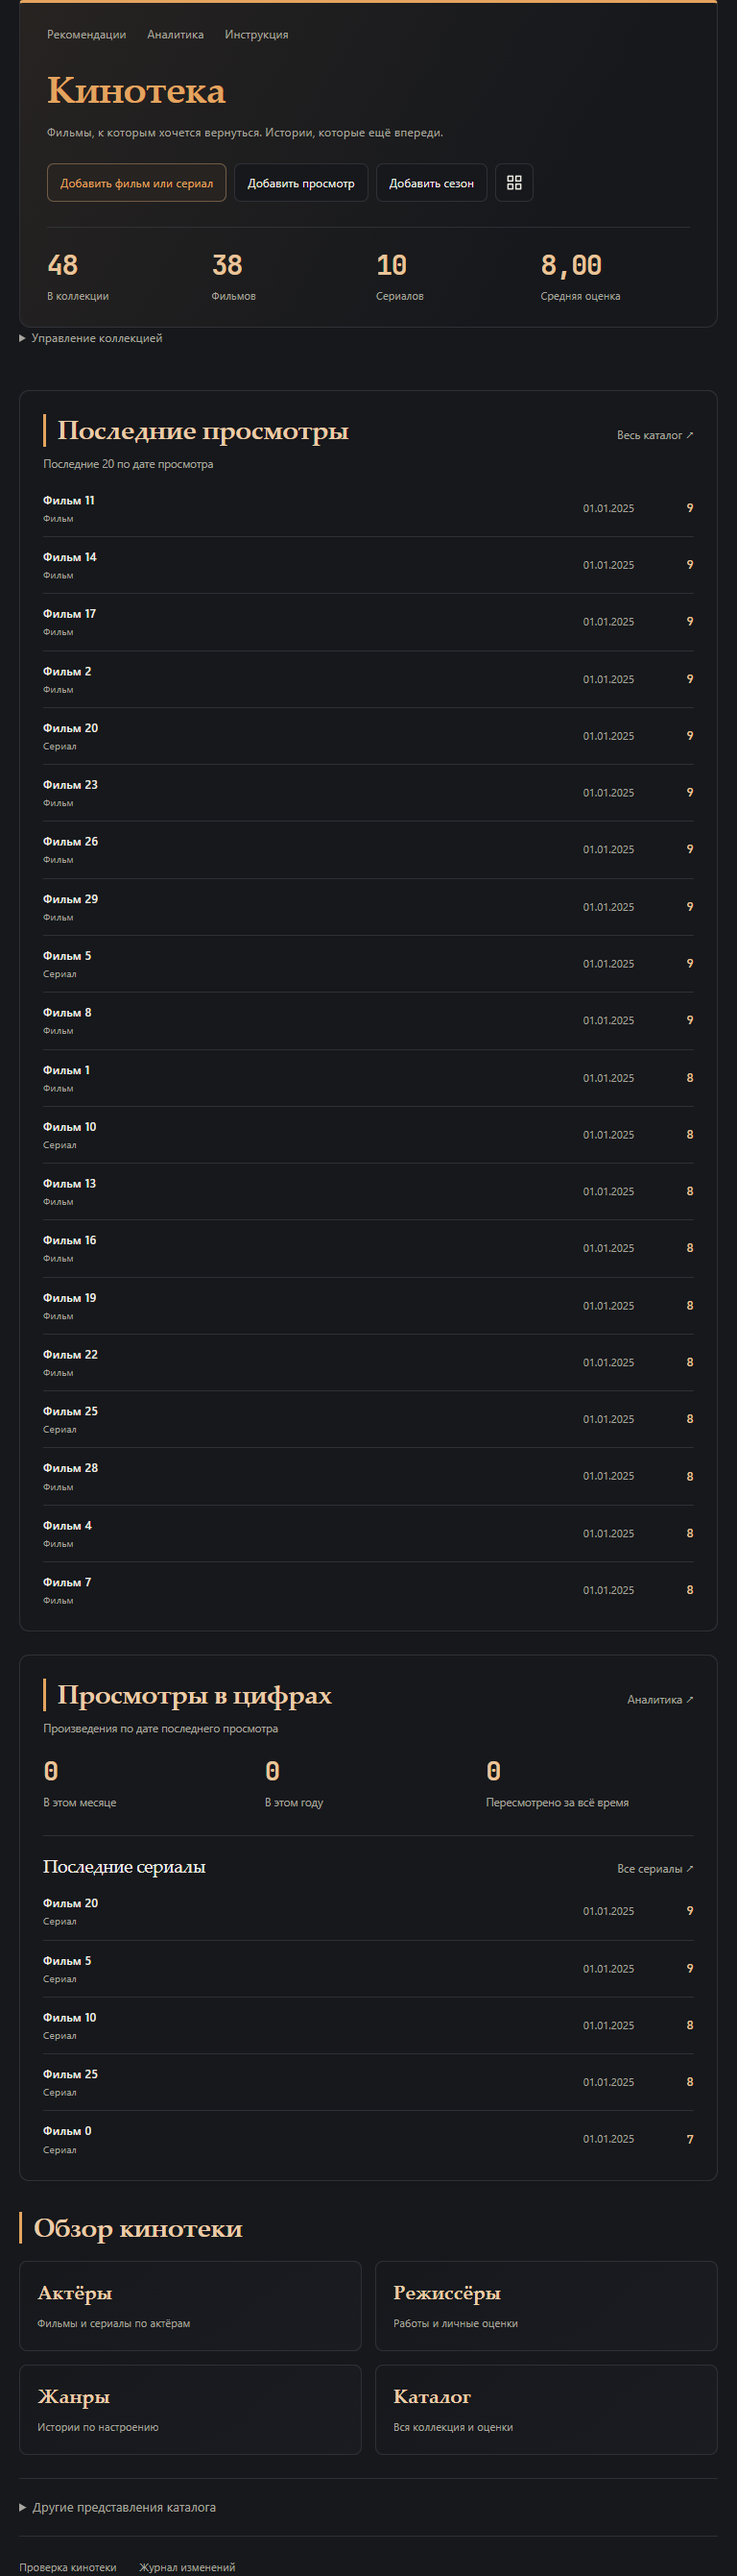
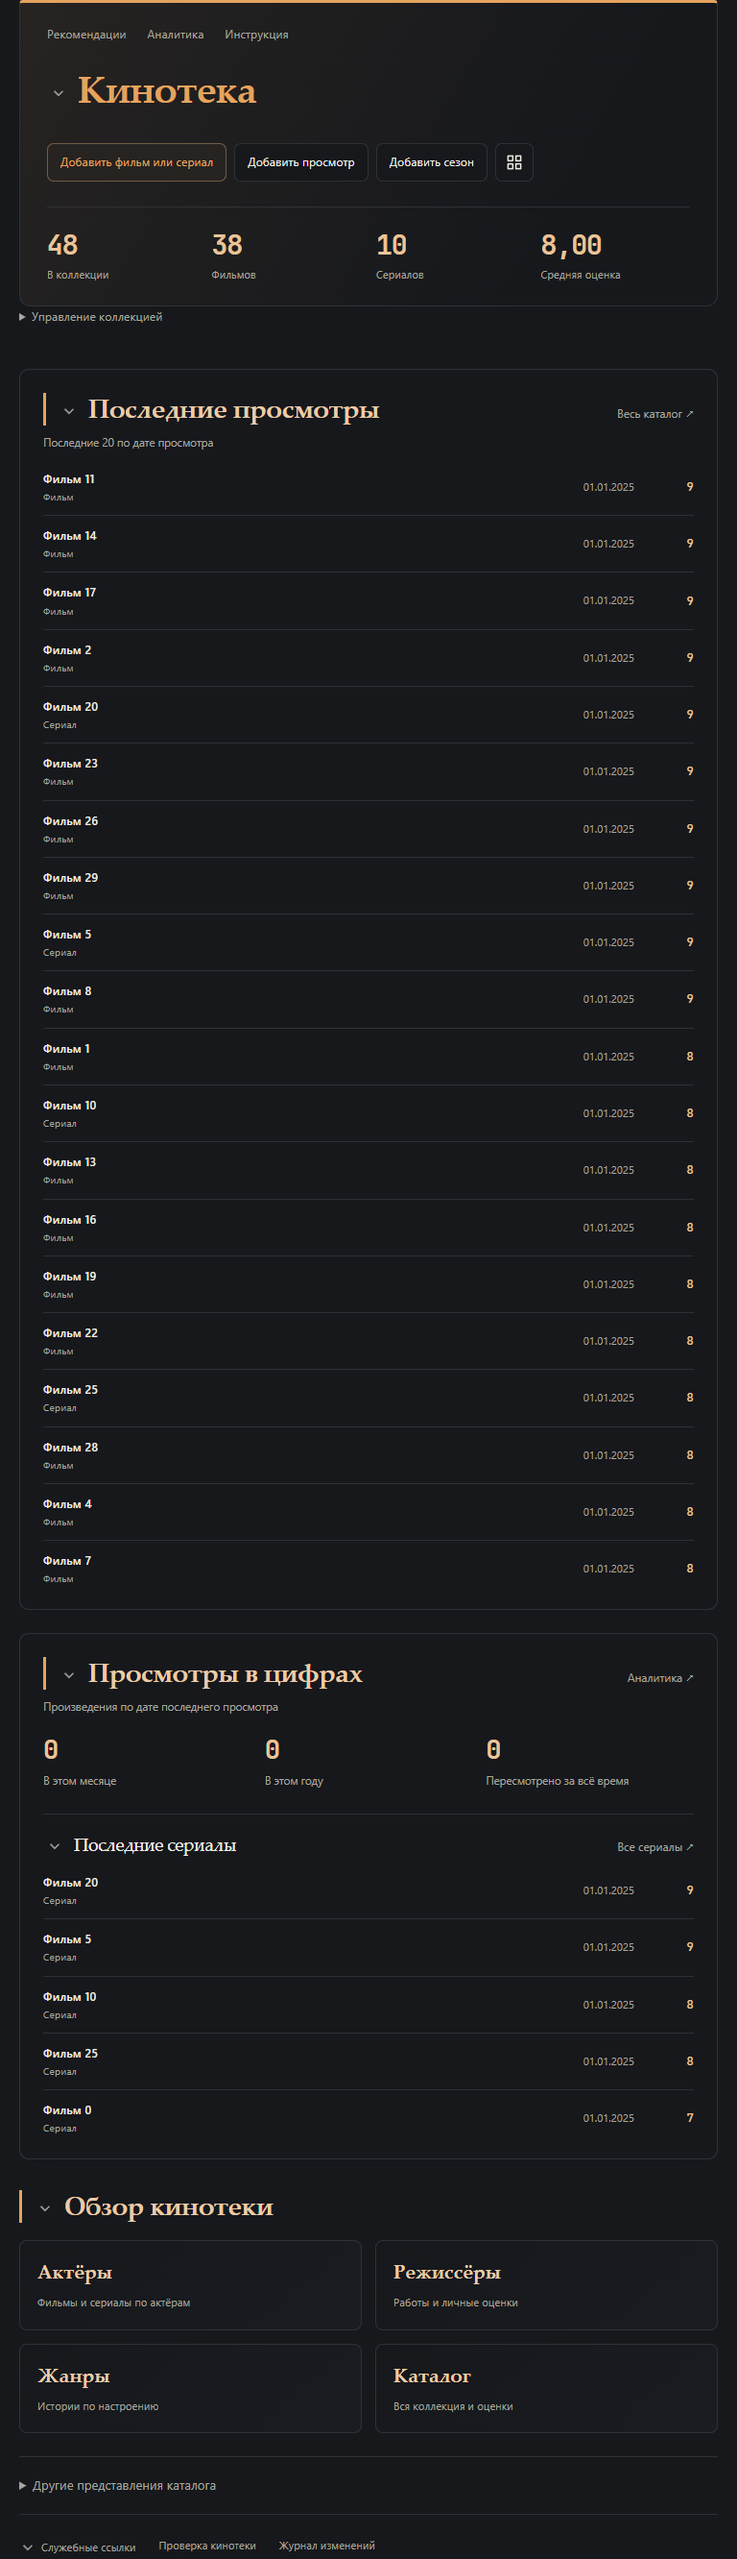
vault backup: 2026-10-09 22:18:48

diff --git a/Кино/_system/kino_home.js b/Кино/_system/kino_home.js
@@ -116,6 +116,52 @@ module.exports = async ({ dv, app, obsidian = {} }) => {
         root = el(dv.container, 'section', 'kino-home-ui'); root.dataset.ready = 'false';
         if (refresh) refresh.root = root;
         el(root, 'style', '', css);
+        const foldKey = 'kino.home.folds.v1:' + (app.vault.getName?.() || '') + ':' + source;
+        const memory = app.__kinoHomeFolds || (app.__kinoHomeFolds = Object.create(null));
+        let folds = memory[foldKey] || {};
+        try {
+            const saved = JSON.parse(doc.defaultView.localStorage.getItem(foldKey));
+            if (saved && typeof saved === 'object' && !Array.isArray(saved)) folds = saved;
+        } catch (_) {}
+        memory[foldKey] = folds;
+        function saveFold(key, expanded) {
+            if (disposed) return;
+            folds[key] = expanded;
+            try { doc.defaultView.localStorage.setItem(foldKey, JSON.stringify(folds)); } catch (_) {}
+        }
+        const instance = 'kino-fold-' + Math.random().toString(36).slice(2);
+        function foldBlock(box, heading, targets, key, label) {
+            box.dataset.fold = key;
+            const button = el(heading, 'button', 'kino-home-fold'); button.type = 'button';
+            heading.prepend(button);
+            const svg = doc.createElementNS('http://www.w3.org/2000/svg', 'svg');
+            svg.setAttribute('viewBox', '0 0 24 24'); svg.setAttribute('aria-hidden', 'true');
+            const arrow = doc.createElementNS('http://www.w3.org/2000/svg', 'path');
+            arrow.setAttribute('d', 'M6 9l6 6 6-6'); arrow.setAttribute('fill', 'none');
+            arrow.setAttribute('stroke', 'currentColor'); arrow.setAttribute('stroke-width', '2');
+            svg.appendChild(arrow); button.appendChild(svg);
+            if (key === 'footer') el(button, 'span', '', 'Служебные ссылки');
+            const nodes = targets.filter(Boolean);
+            nodes.forEach((node, index) => { if (!node.id) node.id = `${instance}-${key}-${index}`; });
+            button.setAttribute('aria-controls', nodes.map(node => node.id).join(' '));
+            function drawFold(expanded) {
+                box.dataset.collapsed = String(!expanded);
+                button.setAttribute('aria-expanded', String(expanded));
+                button.setAttribute('aria-label', `${expanded ? 'Свернуть' : 'Раскрыть'} блок «${label}»`);
+                button.title = button.getAttribute('aria-label');
+                for (const node of nodes) node.hidden = !expanded;
+            }
+            drawFold(typeof folds[key] === 'boolean' ? folds[key] : true);
+            listen(button, 'click', () => {
+                const expanded = button.getAttribute('aria-expanded') !== 'true';
+                drawFold(expanded); saveFold(key, expanded);
+            });
+        }
+        function rememberDetails(details, key) {
+            details.dataset.fold = key;
+            if (typeof folds[key] === 'boolean') details.open = folds[key];
+            listen(details, 'toggle', event => { if (event.target === details) saveFold(key, details.open); });
+        }
         const status = el(root, 'p', 'kino-home-action-error'); status.hidden = true; status.setAttribute('role', 'status');
         function command(parent, text, choice, cls = '') {
             const link = el(parent, 'a', cls, text);
@@ -233,11 +279,13 @@ module.exports = async ({ dv, app, obsidian = {} }) => {
         }
         const catalogTile = el(overviewLinks, 'div', 'kino-home-overview'); internal(catalogTile, 'Каталог', 'Кино/_Кино.base#Карточки'); el(catalogTile, 'p', '', 'Вся коллекция и оценки');
         const views = el(root, 'details', 'kino-home-views'); el(views, 'summary', '', 'Другие представления каталога');
+        rememberDetails(management, 'management'); rememberDetails(views, 'views');
         const viewLinks = el(views, 'nav', 'kino-home-view-links'); viewLinks.setAttribute('aria-label', 'Представления каталога');
         for (const [label, name] of [['Подробная таблица', 'Все'], ['Фильмы', 'Фильмы'], ['Сериалы', 'Сериалы'], ['По году релиза', 'По году релиза'], ['Сравнение оценок', 'Сравнение оценок']]) internal(viewLinks, label, 'Кино/_Кино.base#' + name);
         const nativeViews = [];
         function nativeView(label, target) {
             const details = el(views, 'details', 'kino-home-native-view'); details.dataset.target = target;
+            rememberDetails(details, 'native:' + target);
             el(details, 'summary', '', label); const content = el(details, 'div', 'kino-home-native-content');
             let child = null, generation = 0;
             const linkCleanups = [];
@@ -276,6 +324,13 @@ module.exports = async ({ dv, app, obsidian = {} }) => {
         listen(views, 'toggle', () => { for (const view of nativeViews) if (views.open) void view.open(); else view.clear(); });
         const footer = el(root, 'footer', 'kino-home-footer');
         internal(footer, 'Проверка кинотеки', 'Кино/_system/Проверка кинотеки'); internal(footer, 'Журнал изменений', 'Кино/_system/Журнал изменений');
+        foldBlock(masthead, heading.querySelector('h1'), [nav, actions, stats], 'masthead', 'Кинотека');
+        for (const [block, key, label] of [[recent, 'recent', 'Последние просмотры'], [reading, 'reading', 'Просмотры в цифрах']]) {
+            foldBlock(block.box, block.head.querySelector('h2'), [block.body, block.head.querySelector('.kino-home-caption')], key, label);
+        }
+        foldBlock(serials, serialHead.querySelector('h3'), [serialList], 'serials', 'Последние сериалы');
+        foldBlock(overviews, overviews.querySelector('h2'), [overviewLinks], 'overview', 'Обзор кинотеки');
+        foldBlock(footer, footer, [...footer.querySelectorAll('a')], 'footer', 'Служебные ссылки');
         if (!disposed) root.dataset.ready = 'true';
         return { dispose };
     } catch (problem) { dispose(); throw problem; }

diff --git a/Кино/_system/kino-home.css b/Кино/_system/kino-home.css
@@ -25,6 +25,12 @@
 }
 .kino-home-ui.kino-home-ui * { box-sizing: border-box; }
 .kino-home-ui.kino-home-ui [hidden] { display: none !important; }
+.kino-home-ui.kino-home-ui .kino-home-fold { display: inline-flex; align-items: center; justify-content: center; width: 24px; min-height: 24px; padding: 0; margin: 0 8px 0 0; border: 0; border-radius: 4px; background: transparent; color: var(--text-muted); vertical-align: middle; line-height: 1; }
+.kino-home-ui.kino-home-ui .kino-home-fold:hover { color: var(--home-accent); background: var(--home-tint); }
+.kino-home-ui.kino-home-ui .kino-home-fold svg { width: 18px; height: 18px; flex: 0 0 18px; }
+.kino-home-ui.kino-home-ui .kino-home-fold[aria-expanded="false"] svg { transform: rotate(-90deg); }
+.kino-home-ui.kino-home-ui .kino-home-footer>.kino-home-fold { width: auto; gap: 5px; font: inherit; margin: 0; }
+.kino-home-ui.kino-home-ui .kino-home-panel[data-collapsed="true"] .kino-home-panel-head { margin-bottom: 0; }
 .kino-home-ui.kino-home-ui :is(a,button,summary):focus-visible { outline: 2px solid var(--home-accent); outline-offset: 3px; }
 .kino-home-ui.kino-home-ui a { text-decoration: none; overflow-wrap: anywhere; }
 .kino-home-ui.kino-home-ui a:hover { color: var(--home-accent); }

diff --git a/Кино/_system/Редизайн — прогресс.md b/Кино/_system/Редизайн — прогресс.md
@@ -5,6 +5,15 @@ obsidianUIMode: preview
 
 Обновлено: 08.10.2026. **Главная кинотеки по образцу Книг завершена.** Основной редизайн, компактные строки, шапка и выбор года тоже завершены; массовые миграции повторно не выполнять. При «продолжай» сначала прочитать этот файл и актуальный запрос.
 
+## Сворачиваемые блоки главной — 09.10.2026
+
+- **Завершено:** все блоки главной можно свернуть и раскрыть стрелкой у заголовка. Шапка «Кинотека» скрывает навигацию, основные действия и счётчики; отдельно сворачиваются последние просмотры, просмотры в цифрах, последние сериалы, обзор и служебные ссылки. Заголовок/стрелка остаются доступны для раскрытия.
+- «Управление коллекцией», дополнительные представления и три вложенные таблицы используют прежние раскрываемые разделы. Их состояние теперь также сохраняется.
+- Состояния привязаны к кинотеке/главной и сохраняются в локальном хранилище устройства; при его недоступности — в памяти текущего приложения. Заметки и пользовательские данные при переключении не записываются.
+- Кнопки поддерживают Enter/Space, aria-expanded/aria-controls, подписи и видимый фокус. Скрытые блоки продолжают получать обновлённые данные; native Bases освобождаются при закрытии по прежним правилам.
+- Изменены `kino_home.js`, `kino-home.css` и существующий `tests/home-ui.test.cjs`. Снимок перед правками: `redesign-backups/home-folds-20261009/before.zip`.
+- Проверено **11/11**: home-ui 10/10 (включая новый сценарий сворачивания всех блоков клавиатурой, хранения состояния, повторного открытия и освобождения ресурсов) и сценарий главной design-ui 1/1. Адаптация 390/768/1440 и панель 330 px сохранена; браузерные превью обновлены, телефонный вариант просмотрен.
+
 ## Доработки главной 09.10.2026
 
 - По просьбе пользователя удалён единственный файл `Media/Без названия.md` — незаполненный черновик без даты просмотра. Связанные файлы не удалялись.

diff --git a/Кино/_system/Режиссер.md b/Кино/_system/Режиссер.md
@@ -1,6 +1,6 @@
 ---
 obsidianUIMode: preview
-Выбрано: Steven Soderbergh
+Выбрано: Tim Burton
 cssclasses:
   - kino-page
   - kino-entity
